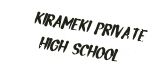
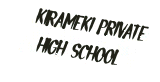
Third pass on the BS still drafts: reviewer nits (T-39412)
- D_15_03 monument: the top of the old 市 left of CENTRAL is erased and
  refilled without grain (new `smooth` erase key).
- D_19_02: LOVELY SHOP narrowed (2 px L, 2 px word space), 3 px clear
  at each end of the board.
- P_01_01 gate plate: cap 13.5 and leading 14, ink at least 6.7 px from
  every plate edge; A-T and V-A kerning closes the gap in PRIVATE.
- P_01_03: sky at the cut left-edge glyph refilled without grain, so
  the vertical streaks are gone.

translation_inventory.json is not regenerated here.

Changed region(s): [[0.1875, 0.0976, 0.9375, 0.5122], [0.2188, 0.439, 0.75, 0.8049]]

diff --git a/tools/translation_bs_stills.py b/tools/translation_bs_stills.py
@@ -57,16 +57,47 @@ BRUSH = {'entry': 0.35, 'taper': 0.6, 'contrast': 0.5, 'wobble': 0.14}
 PLATE_ERASE = {'polarity': 'dark', 'threshold': 12, 'margin': 1}
 
 
-def natural_length(text, cap, aspect, gap):
+# Pair kerning in glyph units for runs with `kern` (the skeleton face sets every pair the same, which leaves a hole
+# between a slanted leg and a crossbar: PRIVATE read as PRIVA TE).
+KERN = {('A', 'T'): -2.4, ('T', 'A'): -2.4, ('A', 'V'): -1.6, ('V', 'A'): -1.6}
+
+
+def text_units(text, gap, kern=False):
+    """font.text_units plus the KERN adjustments when `kern`."""
+    units = font.text_units(text, gap)
+    return units + (sum(KERN.get(pair, 0.0) for pair in zip(text, text[1:])) if kern else 0.0)
+
+
+def kerned_strokes(text, length, cap, aspect, gap):
+    """font.strokes_for with KERN applied: (local poly-lines, extent facts)."""
+    units = text_units(text, gap, True)
+    sy = cap / font.CAP
+    sx = min(sy * aspect, length / units)
+    start = (length - units * sx) / 2.0
+    cursor, lines = start, []
+    for i, ch in enumerate(text):
+        if ch == ' ':
+            cursor += font.SPACE * sx
+            continue
+        width, parts = font.GLYPHS[ch]
+        lines.extend([[(cursor + px * sx, py * sy) for px, py in part] for part in parts])
+        cursor += (width + gap + (KERN.get((ch, text[i + 1]), 0.0) if i + 1 < len(text) else 0.0)) * sx
+    return lines, {'x_scale': round(sx, 4), 'y_scale': round(sy, 4), 'length_px': round(units * sx, 3), 'offset_px': round(start, 3)}
+
+
+def natural_length(text, cap, aspect, gap, kern=False):
     """Length in px of text at cap height with the given aspect and letter gap (no fitting)."""
-    return font.text_units(text, gap) * cap / font.CAP * aspect
+    return text_units(text, gap, kern) * cap / font.CAP * aspect
 
 
-def brush_run(text, center, angle, cap, aspect, gap, weight, slant=0.0, **brush_options):
+def brush_run(text, center, angle, cap, aspect, gap, weight, slant=0.0, kern=False, **brush_options):
     """A brush-lettered line of natural length centred on `center` (angle: 0 text goes right, 90 down the picture)."""
-    return {'text': text, 'box': [0, 0, 0, 0], 'length': round(natural_length(text, cap, aspect, gap), 3), 'center': list(center),
-            'angle': round(angle, 2), 'slant': slant, 'cap': cap, 'aspect': aspect, 'stroke': weight, 'gap': gap,
-            'brush': {**BRUSH, **brush_options}}
+    run = {'text': text, 'box': [0, 0, 0, 0], 'length': round(natural_length(text, cap, aspect, gap, kern), 3), 'center': list(center),
+           'angle': round(angle, 2), 'slant': slant, 'cap': cap, 'aspect': aspect, 'stroke': weight, 'gap': gap,
+           'brush': {**BRUSH, **brush_options}}
+    if kern:
+        run['kern'] = True
+    return run
 
 
 # P_01_03 / P_01_03B: calligraphy columns. Each column of kanji runs down and to the left; the axis is the line through
@@ -80,7 +111,9 @@ ROSTER_COLUMNS = [  # (family, given, axis point, slope dx/dy)
 ROSTER_INK = {'P_01_03': [5, 5, 6], 'P_01_03B': [6, 6, 6]}
 # broad-nib calligraphy: thick across the nib edge, thin along it, swelling entry, tapered exit
 CALLIGRAPHY = {'nib': 20, 'contrast': 1.2, 'entry': 0.25, 'taper': 0.7, 'wobble': 0.04}
-SKY_ERASE = {'region': [0, 0, 303, 160], 'below': 48, 'margin': 2}
+# `smooth`: erased pixels there take the smooth fill without donor grain (the cut glyph at the left edge, where the copied
+# grain showed as vertical streaks)
+SKY_ERASE = {'region': [0, 0, 303, 160], 'below': 48, 'margin': 2, 'smooth': [[0, 48, 14, 32]]}
 
 
 def rotated_runs(columns, cap=13, aspect=0.74, gap=4.0, weight=2.0, only=None):
@@ -99,8 +132,8 @@ def rotated_runs(columns, cap=13, aspect=0.74, gap=4.0, weight=2.0, only=None):
 # edges at its own height, measured at the top and bottom of its letters (the left edge leans much more than the right one).
 GATE_PLATE = [(114, 67), (236, 88), (221, 147), (73, 123)]  # top-left, top-right, bottom-right, bottom-left
 GATE_ANGLE = 9.5
-GATE_LEADING = 12.0
-GATE_FACE = {'cap': 10.5, 'aspect': 0.84, 'gap': 3.2, 'weight': 1.6, 'slant': 12}
+GATE_LEADING = 14.0
+GATE_FACE = {'cap': 13.5, 'aspect': 0.71, 'gap': 2.7, 'weight': 1.75, 'slant': 12}
 GATE_LINES = ('KIRAMEKI  PRIVATE', 'HIGH  SCHOOL')
 
 
@@ -142,7 +175,7 @@ def gate_centres(lines=GATE_LINES, face=GATE_FACE, angle=GATE_ANGLE, leading=GAT
     centres = []
     for text, dv in zip(lines, (-leading, leading)):
         point = along(middle, angle, 0, dv)
-        length = natural_length(text, face['cap'], face['aspect'], face['gap'])
+        length = natural_length(text, face['cap'], face['aspect'], face['gap'], kern=True)
         left, right = line_margins(point, length, angle, face['cap'], face['slant'], corners)
         x, y = along(point, angle, (right - left) / 2.0, 0)
         centres.append((round(x, 2), round(y, 2)))
@@ -150,7 +183,7 @@ def gate_centres(lines=GATE_LINES, face=GATE_FACE, angle=GATE_ANGLE, leading=GAT
 
 
 def gate_runs(lines=GATE_LINES, face=GATE_FACE):
-    return [brush_run(text, centre, GATE_ANGLE, face['cap'], face['aspect'], face['gap'], face['weight'], face['slant'], **CALLIGRAPHY)
+    return [brush_run(text, centre, GATE_ANGLE, face['cap'], face['aspect'], face['gap'], face['weight'], face['slant'], kern=True, **CALLIGRAPHY)
             for text, centre in zip(lines, gate_centres(lines, face))]
 
 
@@ -159,7 +192,7 @@ def gate_runs(lines=GATE_LINES, face=GATE_FACE):
 PIXEL_FONT = {
     5: {'A': ['.#.', '#.#', '###', '#.#', '#.#'], 'E': ['###', '#..', '##.', '#..', '###'], 'G': ['.##.', '#...', '#.##', '#..#', '.##.'],
         'H': ['#.#', '#.#', '###', '#.#', '#.#'], 'I': ['#', '#', '#', '#', '#'], 'K': ['#.#', '#.#', '##.', '#.#', '#.#'],
-        'L': ['#..', '#..', '#..', '#..', '###'], 'M': ['#...#', '##.##', '#.#.#', '#...#', '#...#'], 'O': ['.#.', '#.#', '#.#', '#.#', '.#.'],
+        'L': ['#.', '#.', '#.', '#.', '##'], 'M': ['#...#', '##.##', '#.#.#', '#...#', '#...#'], 'O': ['.#.', '#.#', '#.#', '#.#', '.#.'],
         'P': ['##.', '#.#', '##.', '#..', '#..'], 'R': ['##.', '#.#', '##.', '#.#', '#.#'], 'S': ['.##', '#..', '.#.', '..#', '##.'],
         'V': ['#.#', '#.#', '#.#', '#.#', '.#.'], 'Y': ['#.#', '#.#', '.#.', '.#.', '.#.'],
         '(': ['.#', '#.', '#.', '#.', '.#'], ')': ['#.', '.#', '.#', '.#', '#.'], '/': ['..#', '..#', '.#.', '#..', '#..']},
@@ -189,7 +222,7 @@ PLANS = [
     # --- catalog-143/139/145/144/149: small signs, texture kept (replace T-39400 flat-face crops) ---
     {'id': 'bs-d-15-03-monument-v2', 'file': 'D_15_03', 'catalog_item': 'catalog-143', 'supersedes': 'bs-d-15-03-monument',
      'sign': 'stone monument plaque, three lines', 'rect': [229, 127, 55, 33],
-     'erase': {'polarity': 'light', 'threshold': 14, 'margin': 1},
+     'erase': {'polarity': 'light', 'threshold': 14, 'margin': 1, 'also': [[229, 130, 6, 10]], 'smooth': [[229, 130, 6, 10]]},
      'runs': [{'text': 'CENTRAL', 'box': [236, 130, 42, 6], 'cap': 6, 'aspect': 1.0, 'stroke': 0.95, 'gap': 2.4},
               {'text': 'CITY ART', 'box': [236, 141, 42, 6], 'cap': 6, 'aspect': 1.0, 'stroke': 0.95, 'gap': 2.4},
               {'text': 'MUSEUM', 'box': [236, 152, 42, 6], 'cap': 6, 'aspect': 1.0, 'stroke': 0.95, 'gap': 2.4}]},
@@ -202,12 +235,13 @@ PLANS = [
      'sign': 'ticket booth plaque', 'rect': [235, 62, 20, 11],
      'erase': {'polarity': 'dark', 'threshold': 8, 'margin': 1, 'plane': {'fit': [235, 62, 20, 11], 'init': 'light'}},
      'runs': [{'text': 'TICKET', 'box': [236, 62, 18, 10], 'cap': 6, 'aspect': 9, 'stroke': 0.8, 'gap': 2.2}]},
-    # white band y 40-46 above MAIKO: 5 px pixel letters in the strongest pink of the Japanese line. The Japanese is so
+    # white band x 136-179, y 40-46 above MAIKO: 5 px pixel letters (a 2 px L and a 2 px word space keep 3 px clear at each
+    # end) in the strongest pink of the Japanese line. The Japanese is so
     # faint that a relative rule misses its long-vowel bar, so every pixel of the band below a channel sum of 84 is erased.
     {'id': 'bs-d-19-02-maiko-board-v2', 'file': 'D_19_02', 'catalog_item': 'catalog-144', 'supersedes': 'bs-d-19-02-maiko-board',
      'sign': 'rink dasher board, small shop line', 'rect': [136, 41, 44, 5], 'ink': [18, 12, 12],
      'erase': {'below': 84, 'margin': 1, 'plane': {'fit': [136, 40, 44, 7]}},
-     'runs': [pixel_run('LOVELY SHOP', 5, (157.5, 43), space=3)]},
+     'runs': [pixel_run('LOVELY SHOP', 5, (157.5, 43), space=2)]},
     # white plate x 108-143, y 42-51: 6 px pixel letters, black like the kanji, 2 px margins
     {'id': 'bs-i-17-01-hanging-sign-v2', 'file': 'I_17_01', 'catalog_item': 'catalog-149', 'supersedes': 'bs-i-17-01-hanging-sign',
      'sign': 'library aisle hanging sign', 'rect': [109, 43, 34, 8], 'ink': [2, 2, 2],
@@ -237,8 +271,11 @@ def text_lines(run):
     bx, by, bw, bh = spec['box']
     angle = spec.get('angle', spec.get('rotation', 0))
     length = spec.get('length', bh if angle == 90 else bw)
-    local = font.strokes_for(spec['text'], length, spec['cap'], spec['aspect'], spec['gap'])
-    facts = font.text_extent(spec['text'], length, spec['cap'], spec['aspect'], spec['gap'])
+    if spec.get('kern'):
+        local, facts = kerned_strokes(spec['text'], length, spec['cap'], spec['aspect'], spec['gap'])
+    else:
+        local = font.strokes_for(spec['text'], length, spec['cap'], spec['aspect'], spec['gap'])
+        facts = font.text_extent(spec['text'], length, spec['cap'], spec['aspect'], spec['gap'])
     if 'origin' in spec:
         origin = tuple(spec['origin'])
     elif angle == 0:
@@ -361,6 +398,12 @@ def draw_plan(source, plan):
             outside[fy:fy + fh, fx:fx + fw] = False
             exclude = outside if exclude is None else exclude | outside
         base = brush.inpaint(source, mask, erase.get('fill_sigma', 3.0), erase.get('grain', 1.0), exclude)
+        if erase.get('smooth'):
+            # these rectangles take the smooth part only (no donor grain)
+            flat = brush.known_background(source, mask if exclude is None else mask | exclude, erase.get('fill_sigma', 3.0))
+            for rx, ry, rw, rh in erase['smooth']:
+                inside = mask[ry:ry + rh, rx:rx + rw]
+                base[ry:ry + rh, rx:rx + rw][inside] = flat[ry:ry + rh, rx:rx + rw][inside]
     coverage = np.zeros((h, w))
     placed = []
     for run in plan['runs']:

diff --git a/tools/test_translation_bs_stills.py b/tools/test_translation_bs_stills.py
@@ -140,6 +140,25 @@ class DrawingTests(unittest.TestCase):
         english, _ = subject.draw_plan(source, plan)
         self.assertTrue((np.abs(english[8:16, 10:30] - np.array([28, 29, 30])).max() <= 1))
 
+    def test_smooth_rectangles_take_the_fill_without_grain(self):
+        rng = np.random.RandomState(2)
+        source = 20 + rng.randint(-3, 4, size=(40, 60, 3))
+        source[10:20, 10:40] = 31
+        plan = {'rect': [5, 5, 50, 30], 'erase': {'above': 80, 'margin': 0, 'smooth': [[5, 5, 20, 30]]}, 'runs': []}
+        english, _ = subject.draw_plan(source, plan)
+        self.assertLess(float(english[10:20, 12:24].std()), 0.6)  # smooth part: no copied grain
+        self.assertGreater(float(english[10:20, 26:38].std()), 0.6)  # outside the rectangle the grain stays
+
+    def test_kerning_closes_the_a_t_pair_only_where_asked(self):
+        plain = subject.natural_length('PRIVATE', 10, 1.0, 3.0)
+        kerned = subject.natural_length('PRIVATE', 10, 1.0, 3.0, kern=True)
+        self.assertAlmostEqual(plain - kerned, -(subject.KERN[('V', 'A')] + subject.KERN[('A', 'T')]), places=6)
+        lines, facts = subject.kerned_strokes('AT', 20, 10, 1.0, 3.0)
+        a_right = max(x for line in lines[:2] for x, _ in line)
+        t_left = min(x for line in lines[2:] for x, _ in line)
+        self.assertLess(t_left - a_right, 3.0 - 2.0)  # closer than the plain letter gap
+        self.assertTrue(all(r.get('kern') for r in subject.gate_runs()))
+
     def test_a_centre_run_is_centred_on_its_point_at_any_angle(self):
         for angle in (0, 11, 90, 113.5):
             lines, facts = subject.text_lines({'text': 'I', 'box': [0, 0, 0, 0], 'length': 10, 'center': [50, 40], 'angle': angle, 'cap': 10,

diff --git a/wiki/log.md b/wiki/log.md
@@ -2879,3 +2879,7 @@ Second pass on [[tickets/T-39412-bs-stills-art-fixes]] after the owner and revie
 ## [2026-11-01] ticket | Merge the second art fix round and restore two hidden text tables
 
 Merged the round-2 branches of [[tickets/T-39410-mainrom-art-fixes]], [[tickets/T-39411-menus-art-fixes]] and [[tickets/T-39412-bs-stills-art-fixes]] and regenerated `translations/en/graphics/translation_inventory.json` (272 items: 52 reviewed, 192 drafts, 1 missing, 27 untranslated). The `.gitignore` rule `SLPM_*` also matched `translations/en/system/dictionaries/slpm_86_053.md` and `translations/en/system/main_exe/slpm_86_053.md` on the case-insensitive macOS file system, so neither table was ever committed and `tools/translation_tree.py build` could not run. Both are now unignored and regenerated with `split`, their Japanese and context columns filled from the disc through `tools/assets/text_tables.py`, `text_ui_tables.py` and `text_fixed.py`; control characters in the Japanese column use `[[Tnnn:...]]` markers. The magazine movie and concert tables (`D_800B5C2C`, `D_800B5D1C`) are the `profile_display_lower/upper` rows there and are translated. Translation suite with originals and disc mounted: 366 run, OK (15 skipped).
+
+## [2026-11-01] ticket | BS stills third pass: reviewer nits (T-39412)
+
+On [[tickets/T-39412-bs-stills-art-fixes]], in place in `translations/en/graphics/artwork/checkpoints/T39410-stills-fixes-v1/`: monument remnant of 市 left of CENTRAL erased and refilled smooth; LOVELY SHOP 3 px clear at both ends; gate plate letters enlarged to cap 13.5 (at least 6.7 px from every plate edge) with A-T / V-A kerning; P_01_03 sky streaks at the left edge refilled smooth (`smooth` erase key). Changed crops: monument, maiko board, gate plate, roster. `translation_inventory.json` not regenerated (its matches-inputs test fails until the integrator rebuilds it); stills and signs tests 61 OK.

diff --git a/translations/en/graphics/artwork/checkpoints/T39410-stills-fixes-v1/REGISTER.md b/translations/en/graphics/artwork/checkpoints/T39410-stills-fixes-v1/REGISTER.md
@@ -65,6 +65,11 @@ the frame and not translated.
 | `bs-d-24-03-ticket-plaque-v2` | Unchanged: TICKETS does not fit. The face is 20 px wide; seven 3 px letters with 1 px gaps need 25 px, and the skeleton face at 18 px gives 2.6 px a letter, which does not read. |
 | `bs-d-15-03-monument-v2` | Unchanged (CENTRAL / CITY ART / MUSEUM, owner). |
 
+Third pass (final reviewer nits): monument remnant left of CENTRAL (top of 市, x 229-234) force-erased and refilled
+without grain; LOVELY SHOP narrowed (2 px L, 2 px word space) to 3 px clear at each end; gate plate letters enlarged
+(cap 13.5, leading 14; ink at least 6.7 px from every plate edge) with A-T and V-A kerning (PRIVATE); P_01_03 sky at the
+cut left-edge glyph refilled without grain (no streaks). New erase key `smooth` (rectangles filled without donor grain).
+
 ## 5. P_01_02 student names: not done, with evidence
 
 The board names are family and given names of about 5 x 6 px per character, blurred together at the macroblock level;

diff --git a/wiki/tickets/T-39412-bs-stills-art-fixes.md b/wiki/tickets/T-39412-bs-stills-art-fixes.md
@@ -49,3 +49,10 @@ catalog-147 reworded (jsonl and md). `translation_inventory.json` is not regener
 until the integrator rebuilds it. Tests: `tools/test_translation_bs_stills.py` and `tools/test_translation_bs_signs.py`
 59 OK; translation discovery 351 run, failures only the inventory matches-inputs test and the `test_translation_tree` and
 `test_translation_filesel_drafts` failures that HEAD has too.
+
+## Third pass (2026-11-01)
+
+Third pass (final reviewer nits): monument remnant left of CENTRAL (top of 市, x 229-234) force-erased and refilled
+without grain; LOVELY SHOP narrowed (2 px L, 2 px word space) to 3 px clear at each end; gate plate letters enlarged
+(cap 13.5, leading 14; ink at least 6.7 px from every plate edge) with A-T and V-A kerning (PRIVATE); P_01_03 sky at the
+cut left-edge glyph refilled without grain (no streaks). New erase key `smooth` (rectangles filled without donor grain).
